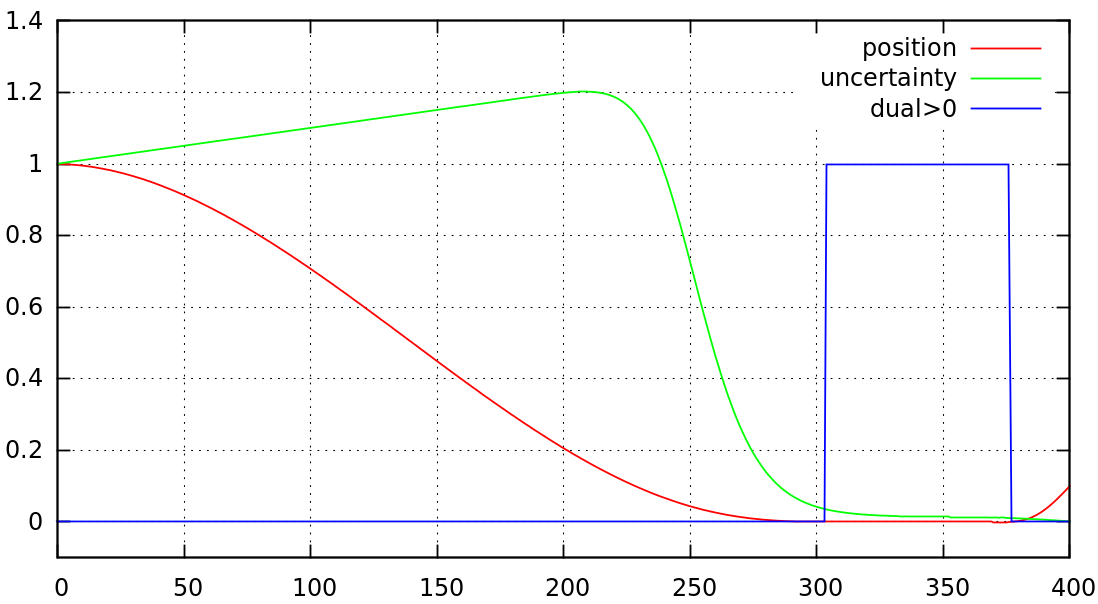
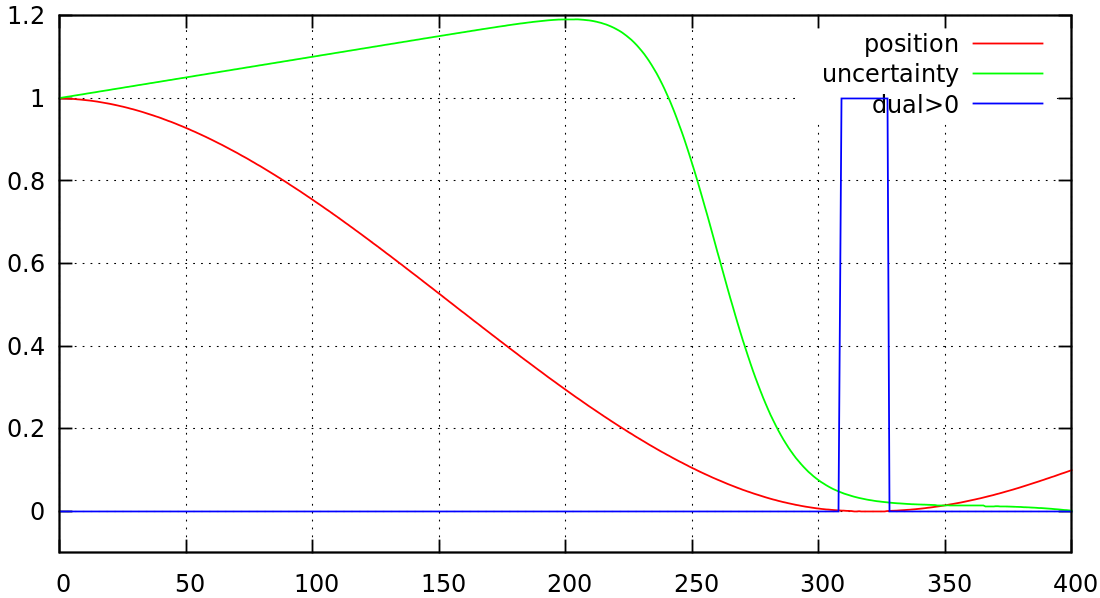
new pics for belief dynamics

diff --git a/share/projects/13-dualExecution/belief_dynamics/main.cpp b/share/projects/13-dualExecution/belief_dynamics/main.cpp
@@ -69,7 +69,7 @@ void MiniBeliefProblem::phi_t(arr& phi, arr& J, uint t, const arr& x_bar, const 
   phi.clear();
 
   //-- pos transition costs
-  double H=1.;
+  double H=100.;
   phi.append(H*(x_bar(0,0)-2.*x_bar(1,0)+x_bar(2,0))); //penalize acceleration
 
   //-- belief transition costs
